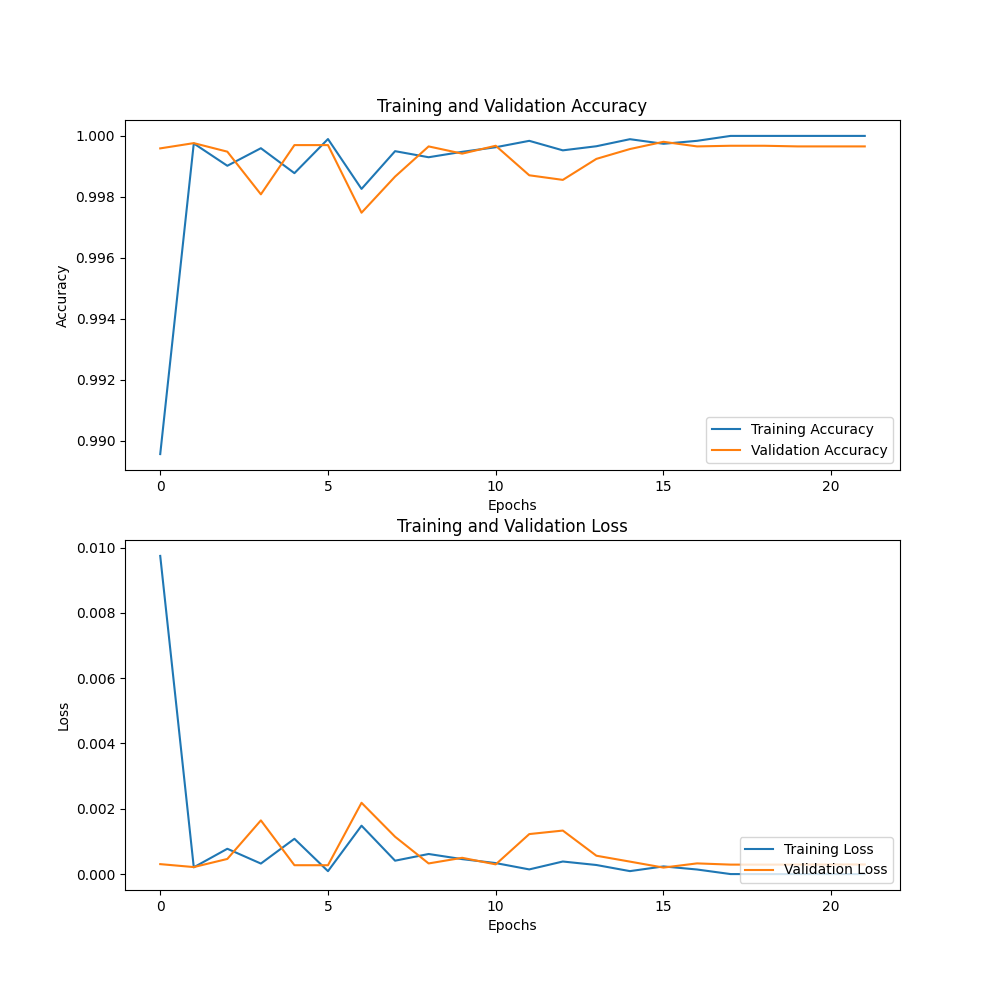
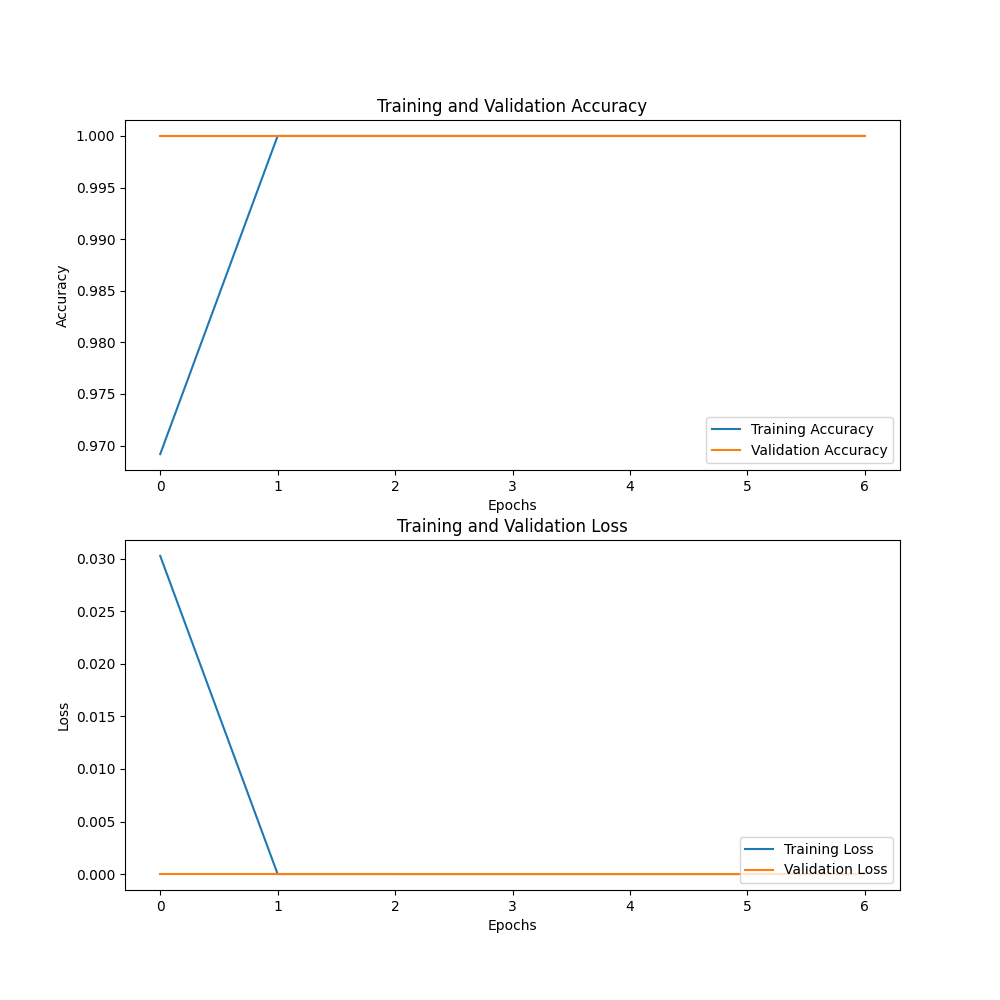
docs: metrics asvspoof with color

diff --git a/cnn/classifier.py b/cnn/classifier.py
@@ -1,7 +1,5 @@
 from keras import layers, Model
 
-# CNN model sketch:
-
 
 class Classifier(Model):
     def __init__(self):
@@ -9,31 +7,39 @@ class Classifier(Model):
 
         # convolution + feature extraction
         self.conv1 = layers.Conv2D(16, (3, 3))
+        self.batch_norm1 = layers.BatchNormalization()
         self.relu1 = layers.Activation('relu')
         self.max_pool1 = layers.MaxPool2D(pool_size=2, strides=2)
-
-        self.dropout1 = layers.Dropout(0.5)
-
         self.conv2 = layers.Conv2D(32, (3, 3))
+        self.batch_norm2 = layers.BatchNormalization()
         self.relu2 = layers.Activation('relu')
         self.max_pool2 = layers.MaxPool2D(pool_size=2, strides=2)
+        self.conv3 = layers.Conv2D(64, (3, 3))
+        self.batch_norm3 = layers.BatchNormalization()
+        self.relu3 = layers.Activation('relu')
+        self.max_pool3 = layers.MaxPool2D(pool_size=2, strides=2)
 
-        self.dropout2 = layers.Dropout(0.5)
+        self.dropout = layers.Dropout(0.5)
 
         # dense layer + output
         self.flatten = layers.Flatten()
-        self.d1 = layers.Dense(256, activation='relu')
+        self.d1 = layers.Dense(1024, activation='relu')
         self.d2 = layers.Dense(2, activation='softmax')
 
     def call(self, x):
         x = self.conv1(x)
+        x = self.batch_norm1(x)
         x = self.relu1(x)
         x = self.max_pool1(x)
-        x = self.dropout1(x)
         x = self.conv2(x)
+        x = self.batch_norm2(x)
         x = self.relu2(x)
         x = self.max_pool2(x)
-        x = self.dropout2(x)
+        x = self.conv3(x)
+        x = self.batch_norm3(x)
+        x = self.relu3(x)
+        x = self.max_pool3(x)
+        x = self.dropout(x)
 
         x = self.flatten(x)
         x = self.d1(x)

diff --git a/cnn/train.py b/cnn/train.py
@@ -3,7 +3,7 @@ from keras import layers, utils, Sequential
 from classifier import Classifier
 from trainer import Trainer
 
-EPOCHS = 10
+EPOCHS = 100
 BATCH_SIZE = 128
 VALIDATION_SPLIT = 0.2
 
@@ -19,16 +19,12 @@ main_directory/
         img1
         img2
         ...
-    other/
-        img1
-        img2
-        ...
     real/
         img1
         img2
         ...
 '''
-DATASET_PATH = r'C:\Users\mcsgo\OneDrive\Documentos\TCC\Dataset'
+DATASET_PATH = r'C:\Users\mcsgo\OneDrive\Documentos\TCC\DatasetColored'
 
 model = Classifier()
 if os.path.exists(CHECKPOINT_PATH):
@@ -41,7 +37,7 @@ train_ds, test_ds = utils.image_dataset_from_directory(
     DATASET_PATH,
     labels='inferred',
     label_mode='categorical',
-    color_mode='grayscale',
+    color_mode='rgb',
     validation_split=VALIDATION_SPLIT,
     subset='both',
     seed=123,
